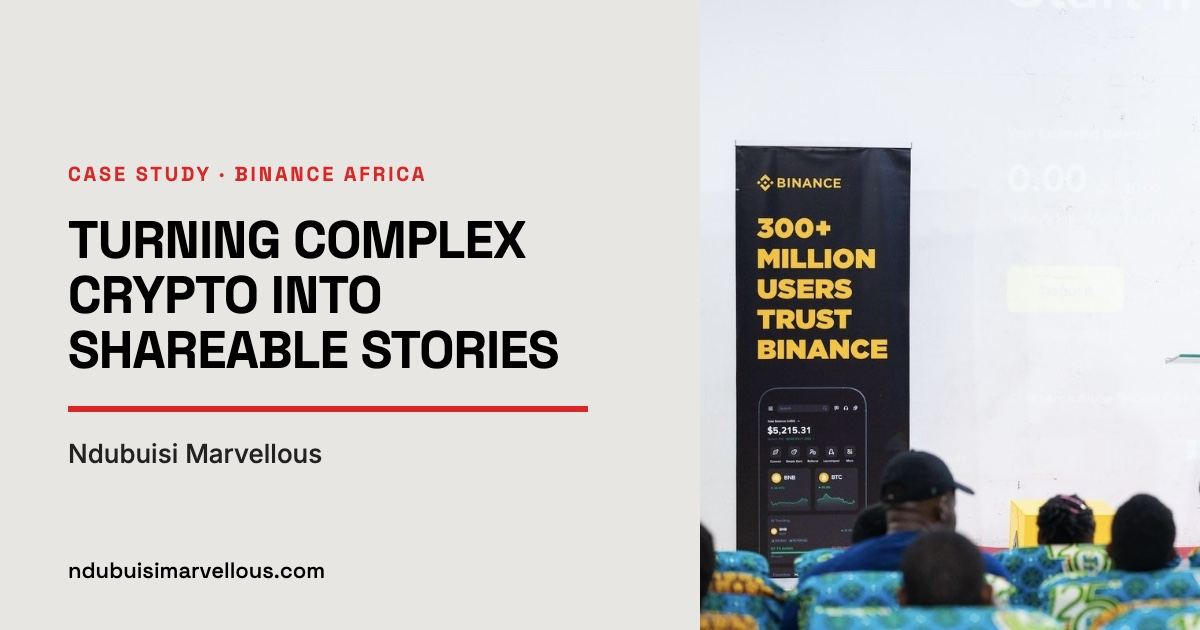
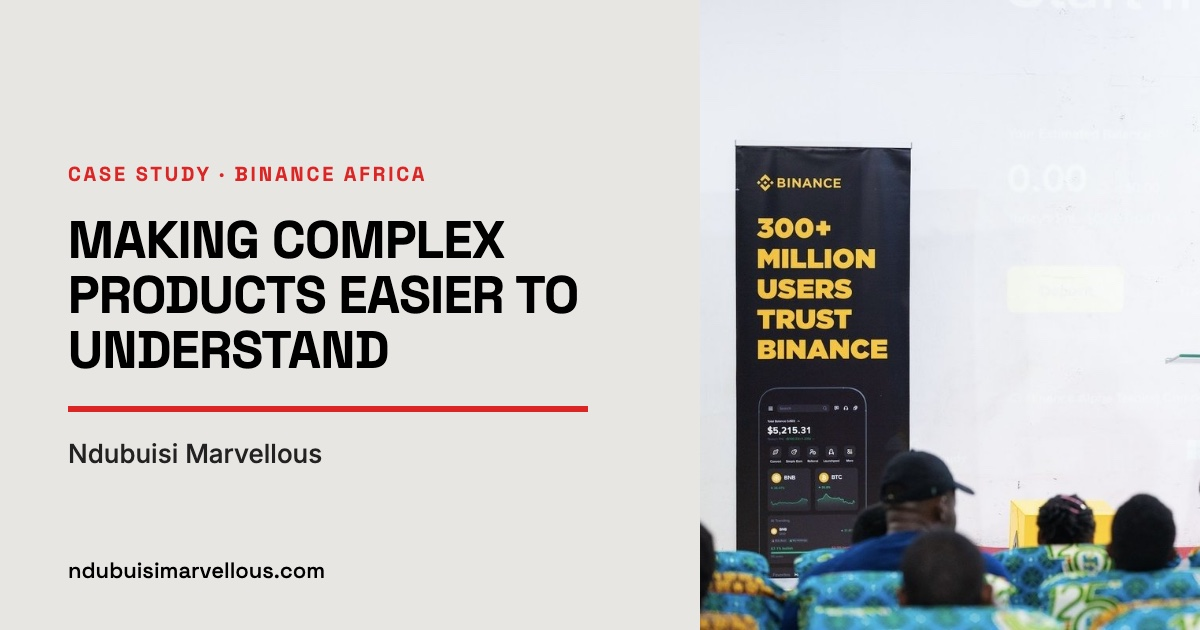
SEO refresh for the Services rewrite and new case study copy
- Services and Binance descriptions match the pages; Bitget description says
  views and impressions, matching the stat label
- New share banners for the Binance and Bitget headlines
- Person structured data lists the new service areas
- llms.txt: new services, stat wording, Bitget operating model and event videos
- Sitemap last-modified dates updated

Changed region(s): [[0.0617, 0.3317, 0.4933, 0.6032]]

diff --git a/src/pages/BinanceCaseStudy.tsx b/src/pages/BinanceCaseStudy.tsx
@@ -78,7 +78,7 @@ export function BinanceCaseStudy() {
   useDocumentMeta({
     title: 'Binance Africa Street Interviews Case Study | Ndubuisi Marvellous',
     description:
-      'Short-form street-interview content for Binance Africa that explained crypto simply, built for Instagram and TikTok.',
+      'Making complex products easier to understand: short-form street-interview videos for Binance Africa that explained crypto simply, made for Instagram and TikTok.',
     image: '/case-studies/og-binance.jpg',
     ogType: 'article',
   })

diff --git a/index.html b/index.html
@@ -64,6 +64,10 @@
           "Social media strategy",
           "Community management",
           "Community operations",
+          "Community-led growth",
+          "Partnerships and ecosystem growth",
+          "Creator, KOL and ambassador programs",
+          "Events and experiential marketing",
           "Content creation",
           "Web3 and crypto marketing",
           "Fintech marketing",
